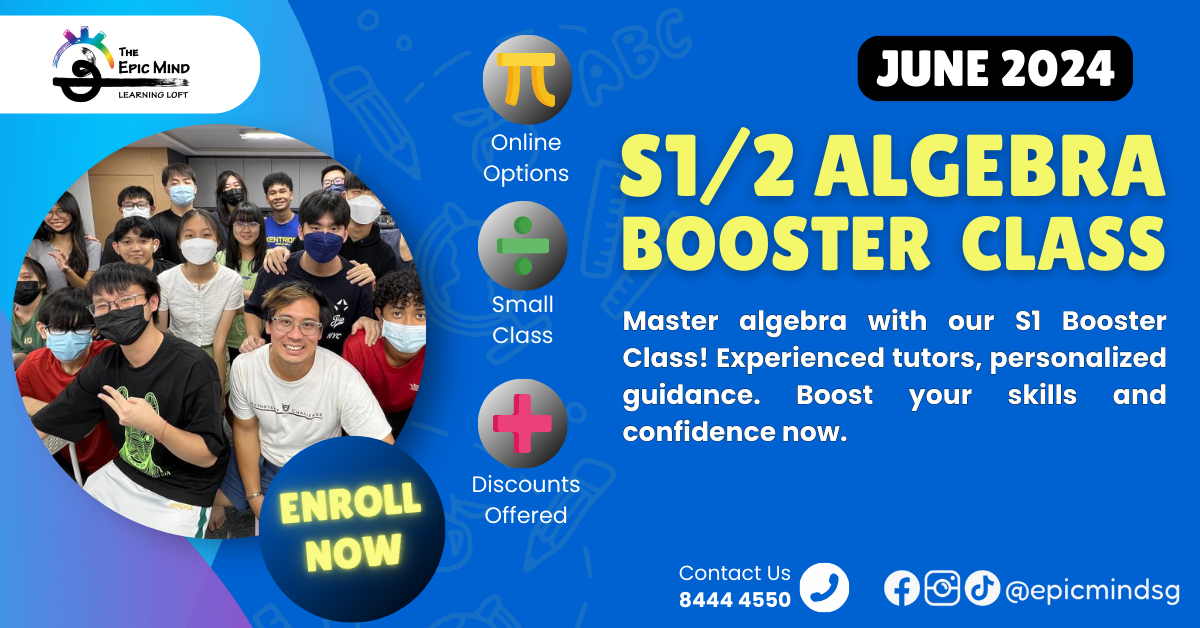
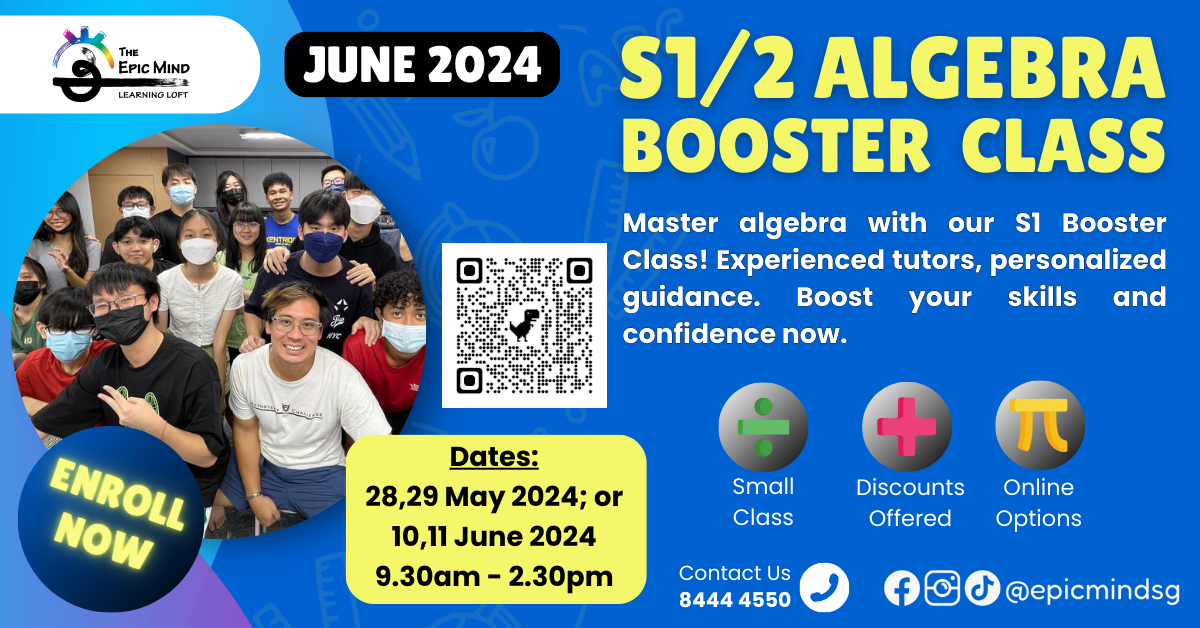
new additions of images

diff --git a/src/components/AboutUs/OurTeam.jsx b/src/components/AboutUs/OurTeam.jsx
@@ -132,19 +132,19 @@ const teamMembers = [
 const successStories = [
   {
     name: "Steven Seah",
-    imageUrl: process.env.PUBLIC_URL + "images/OurTeam/steven-seah.jpg",
+    imageUrl: process.env.PUBLIC_URL + "/images/OurTeam/steven-seah.jpg",
   },
   {
     name: "Ling Say Kiat",
-    imageUrl: process.env.PUBLIC_URL + "images/OurTeam/ling-say-kiat.jpg",
+    imageUrl: process.env.PUBLIC_URL + "/images/OurTeam/ling-say-kiat.jpg",
   },
   {
     name: "Tan Yi Long",
-    imageUrl: process.env.PUBLIC_URL + "images/OurTeam/tan-yi-long.jpg",
+    imageUrl: process.env.PUBLIC_URL + "/images/OurTeam/tan-yi-long.jpg",
   },
   {
     name: "Teoh Chee Hong",
-    imageUrl: process.env.PUBLIC_URL + "images/OurTeam/teoh-chee-hong.jpg",
+    imageUrl: process.env.PUBLIC_URL + "/images/OurTeam/teoh-chee-hong.jpg",
   },
 ];
 

diff --git a/src/components/OurPrograms/Enrichment.jsx b/src/components/OurPrograms/Enrichment.jsx
@@ -61,13 +61,21 @@ function Enrichment() {
 
 const classesInfo = [
   {
-    title: "Math Mastery Workshop",
+    title: "P6 Math Master",
     imageUrl: process.env.PUBLIC_URL + "/images/Enrichment/P6-Math.png",
   },
   {
-    title: "Science Exploration Days",
+    title: "Secondary 1/2 Kelgebra Masterclass",
+    imageUrl: process.env.PUBLIC_URL + "/images/Enrichment/S1_2-Algebra.png",
+  },
+  {
+    title: "Secondary 1 Science Workshop",
     imageUrl:
       process.env.PUBLIC_URL + "/images/Enrichment/S1-Science-Class.png",
+  },
+  {
+    title: "O-level Math Crash Course",
+    imageUrl: process.env.PUBLIC_URL + "/images/Enrichment/S4-Math-Crash-Course.png",
   },
 ];
 

diff --git a/public/index.html b/public/index.html
@@ -2,7 +2,10 @@
 <html lang="en">
   <head>
     <meta charset="utf-8" />
-    <link rel="icon" href="%PUBLIC_URL%/favicon.ico" />
+    <link
+      rel="icon"
+      href="%PUBLIC_URL%/images/Logo/epicmind-logo-vertical.jpg"
+    />
     <meta name="viewport" content="width=device-width, initial-scale=1" />
     <meta name="theme-color" content="#000000" />
     <script
@@ -24,7 +27,8 @@
     ></script>
     <script src="https://cdn.lightwidget.com/widgets/lightwidget.js"></script>
     <title>Math Tuition Toa Payoh</title>
-    <div id="root"></div>
   </head>
-  <body></body>
+  <body>
+    <div id="root"></div>
+  </body>
 </html>

diff --git a/src/components/Navbar.jsx b/src/components/Navbar.jsx
@@ -44,7 +44,7 @@ function Navbar() {
         <div className="navbar-container">
           <NavLink to="/" className="navbar-logo" onClick={closeMobileMenu}>
             <img
-              src={`${process.env.PUBLIC_URL}/images/epicmind-logo.jpg`}
+              src={`${process.env.PUBLIC_URL}/images/Logo/epicmind-logo-horizontal.jpg`}
               alt="The Epic Mind Learning Loft Logo"
             />
           </NavLink>

diff --git a/src/components/HomePage.css b/src/components/HomePage.css
@@ -51,12 +51,7 @@
   box-shadow: 0 6px 12px rgba(0, 0, 0, 0.3);
 }
 
-.background-image-slider {
-  padding-bottom: 50px;
-}
-
 /* Seo Section */
-
 
 /* Hero Message */
 
